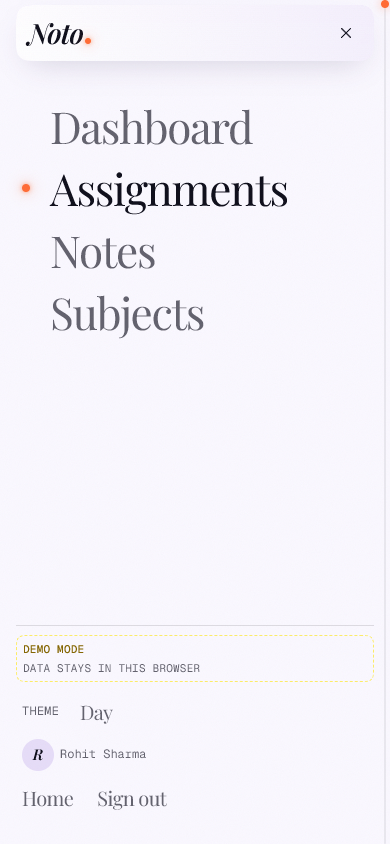
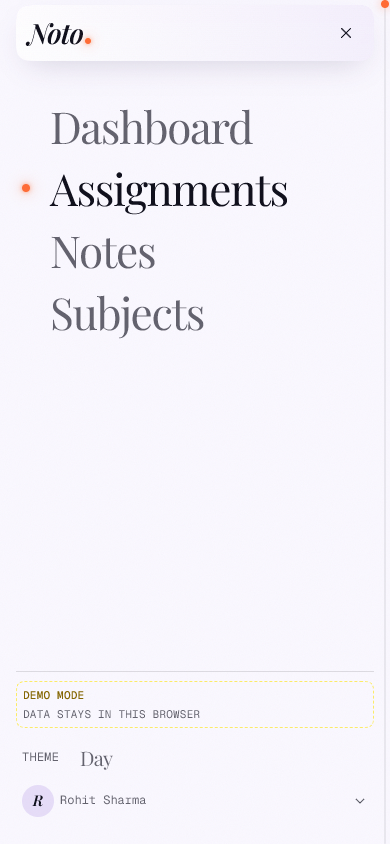
docs: round 6 changelog, context and handoff

Changed region(s): [[0.0615, 0.7393, 0.5231, 0.9858], [0.3077, 0.7701, 0.5231, 0.8009]]

diff --git a/PROJECT_CONTEXT.md b/PROJECT_CONTEXT.md
@@ -2,7 +2,7 @@
 
 ## Resume Here (read first)
 
-Last session: 2026-10-11. **Round 5** (19 owner changes across the landing page and the app: grey intro only on the wordmark, even section spacing, steps under titles, row hover cards, AWS tint inside tiles, swapped Night orbs, Noto in the logo face, Home button and signed-in landing menu, `/` opens the dashboard when signed in, Day/Night only with the circle switch, real names from sign-up, subject colours, softer glows, one-screen sign-in, contained meter) is on branch **`feature/landing-round5`** (from round 4), pushed, **not merged and not deployed**; checklist and notes in `LANDING_TASKS.md` (Round 5). Verified locally: landing motion 41/41, demo E2E 38/38, backend 37/37, frontend unit 20/20. The subject-colour backend change needs a Lambda deploy before colours sync across devices (ask first). Landing round 4 (grey first-load intro with a falling dot and a colour ripple, evenly spaced "How it works", no top-left ball, no hover on "Inside the app", copy without "student"/"project", "Back to home" on sign-in pages) is on branch **`feature/landing-round4`**, pushed to GitHub, **not merged and not deployed**: the owner reviews it locally first (`npm run dev`) and will ask for more changes. Verified locally: landing motion 38/38, demo E2E 34/34, frontend unit 19/19. Before that, 2026-10-10: "Forgot password" (`/reset`) added, merged into `main` and deployed; self-service sign-up and reset verified on the live pool (live API 44/44). Landing round 3 (continuous purple flow, new orbs, HUD, scroll pin, theme-matched screenshots; see `LANDING_TASKS.md`) is merged into `main`, pushed and **deployed to Amplify**; verified live (landing motion 32/32, live site 17/17). **Noto is online:** https://main.dg6fh880g1p8b.amplifyapp.com (AWS Amplify Hosting, HTTPS) against the live
+Last session: 2026-10-11. **Round 6** (12 owner changes, see `LANDING_TASKS.md`) finished rounds 4–6: all three are merged into `main` and deployed (backend stack and Amplify). Verified locally: landing motion 42/42, demo E2E 39/39, backend 37/37, frontend unit 21/21. Before that, **Round 5** (19 owner changes across the landing page and the app: grey intro only on the wordmark, even section spacing, steps under titles, row hover cards, AWS tint inside tiles, swapped Night orbs, Noto in the logo face, Home button and signed-in landing menu, `/` opens the dashboard when signed in, Day/Night only with the circle switch, real names from sign-up, subject colours, softer glows, one-screen sign-in, contained meter) is on branch **`feature/landing-round5`** (from round 4), pushed, **not merged and not deployed**; checklist and notes in `LANDING_TASKS.md` (Round 5). Verified locally: landing motion 41/41, demo E2E 38/38, backend 37/37, frontend unit 20/20. The subject-colour backend change needs a Lambda deploy before colours sync across devices (ask first). Landing round 4 (grey first-load intro with a falling dot and a colour ripple, evenly spaced "How it works", no top-left ball, no hover on "Inside the app", copy without "student"/"project", "Back to home" on sign-in pages) is on branch **`feature/landing-round4`**, pushed to GitHub, **not merged and not deployed**: the owner reviews it locally first (`npm run dev`) and will ask for more changes. Verified locally: landing motion 38/38, demo E2E 34/34, frontend unit 19/19. Before that, 2026-10-10: "Forgot password" (`/reset`) added, merged into `main` and deployed; self-service sign-up and reset verified on the live pool (live API 44/44). Landing round 3 (continuous purple flow, new orbs, HUD, scroll pin, theme-matched screenshots; see `LANDING_TASKS.md`) is merged into `main`, pushed and **deployed to Amplify**; verified live (landing motion 32/32, live site 17/17). **Noto is online:** https://main.dg6fh880g1p8b.amplifyapp.com (AWS Amplify Hosting, HTTPS) against the live
 AWS backend.
 
 | Item | State |

diff --git a/HANDOFF.md b/HANDOFF.md
@@ -24,7 +24,7 @@ For detail, read `PROJECT_CONTEXT.md` next, then `CLAUDE.md` (the project rules)
 - Optional extras are done too: search, filters, sorting, dark mode, upload progress, a public landing page.
 - Still open: sign-up with a real email through the UI, the alert email, CloudFront, console screenshots.
 - Landing page round 4 (grey intro and colour ripple, spaced-out steps, copy and nav fixes) is on branch `feature/landing-round4`, pushed but not merged or deployed.
-- Round 5 (19 owner changes, landing page and app) is on `feature/landing-round5` (built on round 4), pushed but not merged or deployed; the owner is reviewing it locally. Checklist: `LANDING_TASKS.md`, Round 5. Its `POST /subjects` colour field is not on the live Lambda yet.
+- Rounds 4, 5 and 6 (landing page and app changes, checklists in `LANDING_TASKS.md`) are merged into `main` and deployed with `deploy.ps1 -NoCloudFront` (2026-10-11), including the subjects Lambda's colour field.
 - Landing page round 3 (one continuous purple flow, new orbs, glass HUD, orange scroll pin, theme-matched screenshots) is merged into `main` and deployed (2026-10-10, verified live); every task and its notes are in `LANDING_TASKS.md`.
 
 ## Architecture
@@ -60,9 +60,9 @@ For detail, read `PROJECT_CONTEXT.md` next, then `CLAUDE.md` (the project rules)
 ## Test it
 
 - Backend unit: `cd backend && npm test` (36/36).
-- Frontend unit: `cd frontend && npm test` (20/20).
-- Demo end-to-end: `cd e2e && npm test` (38/38). It needs a dev server in demo mode; set `E2E_BASE_URL` if that server is not on 5173.
-- Landing motion: `node e2e/landing-motion.mjs` with a dev server running (41/41).
+- Frontend unit: `cd frontend && npm test` (21/21).
+- Demo end-to-end: `cd e2e && npm test` (39/39). It needs a dev server in demo mode; set `E2E_BASE_URL` if that server is not on 5173.
+- Landing motion: `node e2e/landing-motion.mjs` with a dev server running (42/42).
 - Live API: `node e2e/live-api.mjs` (44/44). Live website: `node e2e/live-site.mjs` (17/17).
 - The live tests create and delete their own temporary Cognito users.
 - Run the landing motion test against production with `E2E_BASE_URL=https://main.dg6fh880g1p8b.amplifyapp.com`.

diff --git a/CHANGELOG.md b/CHANGELOG.md
@@ -5,6 +5,29 @@ Format based on [Keep a Changelog](https://keepachangelog.com/en/1.1.0/).
 
 ## [Unreleased]
 
+### Changed (round 6; rounds 4–6 merged into `main` and deployed 2026-10-11)
+
+Full list with notes per item in `LANDING_TASKS.md` (Round 6).
+
+- **Intro.** The dot falls faster (0.3 s) and its first impact starts the colour ripple, which now
+  spreads slowly (1.5 s) so the word's colour still returns gently.
+- **Nav.** The Day/Night switch sits left of "Sign in" in the top bar, and inside the HUD capsule
+  after "Under the hood" (behind a rule). The HUD's ball → line → "Noto" sequence is slower.
+- **Landing.** Night's orbs show the statement in the same white/black negative as Day. "Inside
+  the app" opens each screen's details inline under its row (the rows below slide down) with a
+  Minimise button, instead of a popup. "How it works" shows each open step's text with a much
+  larger diagram underneath (the open step grows; the line still ends at 04). "I built Noto".
+- **App.** The account in the sidebar opens a menu: Rename, Home, Sign out (the separate Home button
+  is gone). The sign-in illustration and heading are centred in their half, larger, and the vine
+  climbs more slowly. The subject colour button sits next to "Add subject" with a chevron and an
+  animated drop-down, and a new subject gets the next unused colour unless one is picked. The
+  completion meter springs again, with room so it never touches "100%".
+
+### Tests (round 6)
+
+- Landing motion 42 checks (inline app details, switch placement, the first-impact slow ripple);
+  demo E2E 39 (the account menu); frontend unit 21 (next subject colour); backend 37.
+
 ### Changed (round 5, branch `feature/landing-round5`, not deployed)
 
 Full list with notes per item in `LANDING_TASKS.md` (Round 5).

diff --git a/CLAUDE.md b/CLAUDE.md
@@ -3118,7 +3118,7 @@ File Storage: S3 presigned upload/download verified live
 API: HTTP API + JWT authorizer deployed and verified
 Monitoring: Log groups, alarms, dashboard deployed; alert email/budget not yet configured
 Deployment: deploy.ps1 (-NoCloudFront until the account is verified; the site is then hosted on Amplify)
-Testing: 37 backend + 20 frontend unit, 38-check demo E2E, 41-check landing motion, 44-check live API, 17-check live website, all passing
+Testing: 37 backend + 21 frontend unit, 39-check demo E2E, 42-check landing motion, 44-check live API, 17-check live website, all passing
 Documentation: Complete; PROJECT_CONTEXT.md has the deployed resource list
 ```
 
